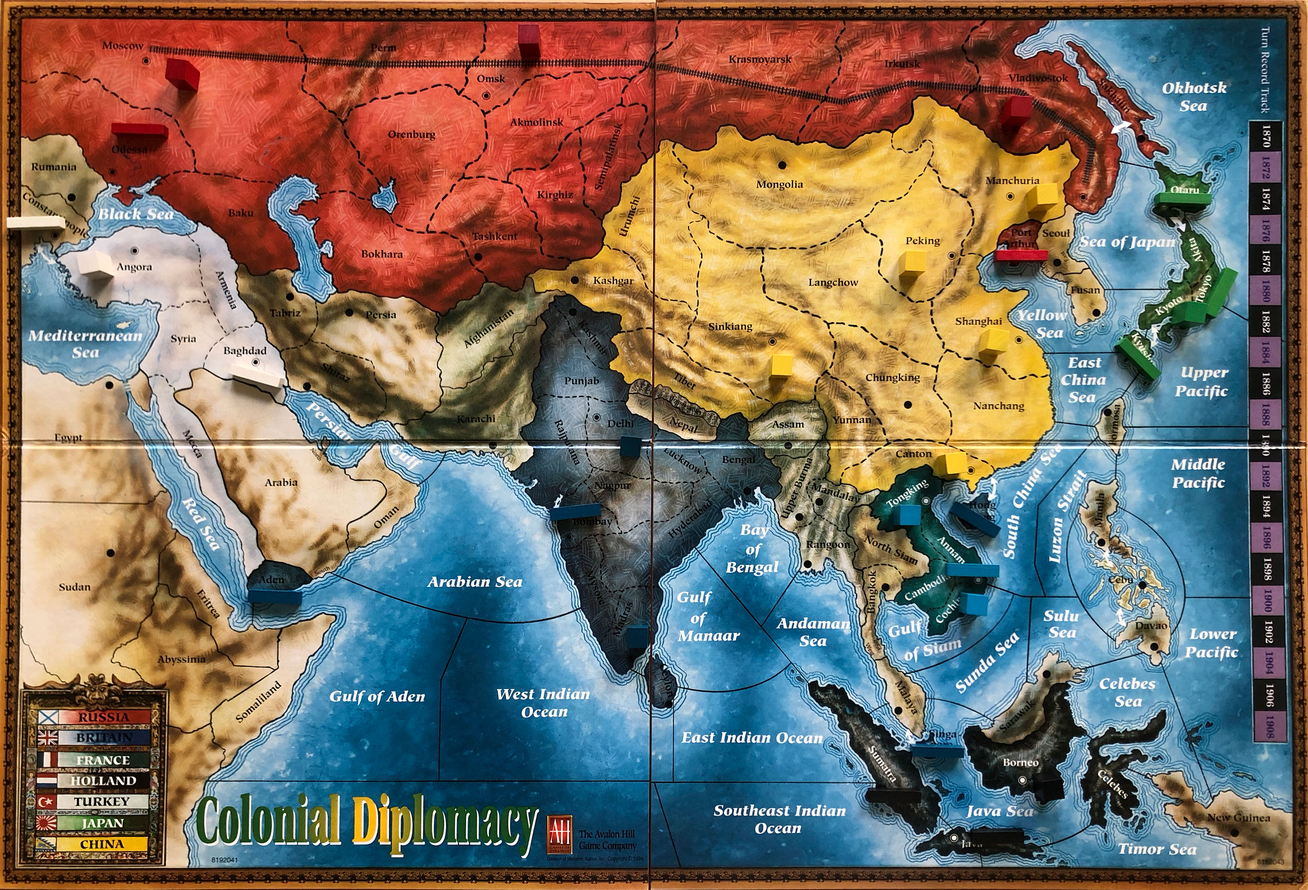
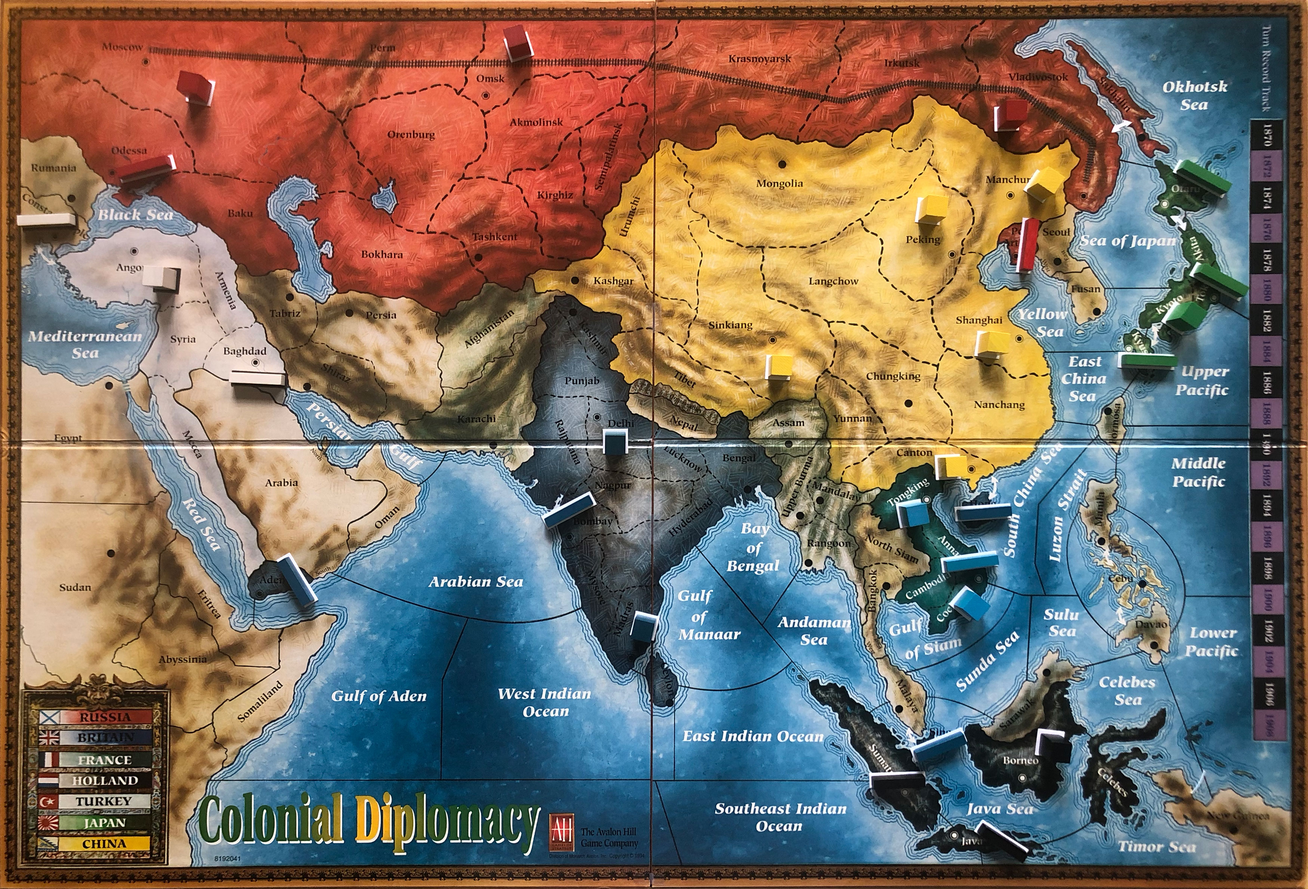
2019-031: add 1870 orders

diff --git a/history/2019-031.html b/history/2019-031.html
@@ -40,11 +40,22 @@
 			.season__orders {
 				width: 100%;
 				display: flex;
+				flex-wrap: wrap;
 			}
 
 			.season__power {
 				white-space: pre-line;
-				width: 14.28%;
+				width: 25%;
+				padding-right: 20px;
+				box-sizing: border-box;
+				margin-bottom: 1rem;
+			}
+
+			.season__power:first-child {
+				white-space: pre-line;
+				width: 50%;
+				padding-right: 20px;
+				box-sizing: border-box;
 			}
 		</style>
 	</head>
@@ -64,11 +75,11 @@
 		<div class="timeline">
 			<div class="season">
 				<div class="season__title">
-					1870
+					1872
 				</div>
 
 				<div class="season__board">
-					<img src="./2019-031/board-1870.jpg" alt="">
+					<img src="./2019-031/board-1872.jpg" alt="">
 				</div>
 
 				<!-- <div class="season__orders">
@@ -100,6 +111,82 @@
 						Turkey
 					</div>
 				</div> -->
+			</div>
+
+			<div class="season">
+				<div class="season__title">
+					1870
+				</div>
+
+				<div class="season__board">
+					<img src="./2019-031/board-1870-orders.jpg" alt="">
+				</div>
+
+				<div class="season__orders">
+					<div class="season__power">
+						Britain
+
+						F(Aden) : Red Sea
+						A(Delhi) : Punjab
+						F(Bombay) : Arabian Sea
+						A(Madras) : Hyderabad
+						F(Hong Kong) : South China Sea
+						F(Singapore) : Java Sea
+					</div>
+
+					<div class="season__power">
+						China
+
+						A MAC H
+						A PEK – MON
+						A SHA S A MAC H
+						A CAN H
+						A SIK – YUN
+					</div>
+
+					<div class="season__power">
+						France
+
+						A Ton-May
+						F Ann-SCS
+						A Coc-Cam
+					</div>
+
+					<div class="season__power">
+						Holland
+
+						F JAVA - TS
+						A BOR - SAR
+						F SUM - AS
+					</div>
+
+					<div class="season__power">
+						Japan
+
+						F Ota-OS
+						F Kyu-Ecs
+						F Tok-Up
+						A Kyo-Kyu
+					</div>
+
+					<div class="season__power">
+						Russia
+
+						F Ode -> Rum
+						A Mos -> Bok
+						A Vla -> Sak
+						A Omsk -> TSR -> Vla
+						F P.Art H
+					</div>
+
+					<div class="season__power">
+						Turkey
+
+						F Con - MED
+						A Ang - Syr
+						F Bag - Shi
+					</div>
+				</div>
 			</div>
 		</div>
 	</body>
